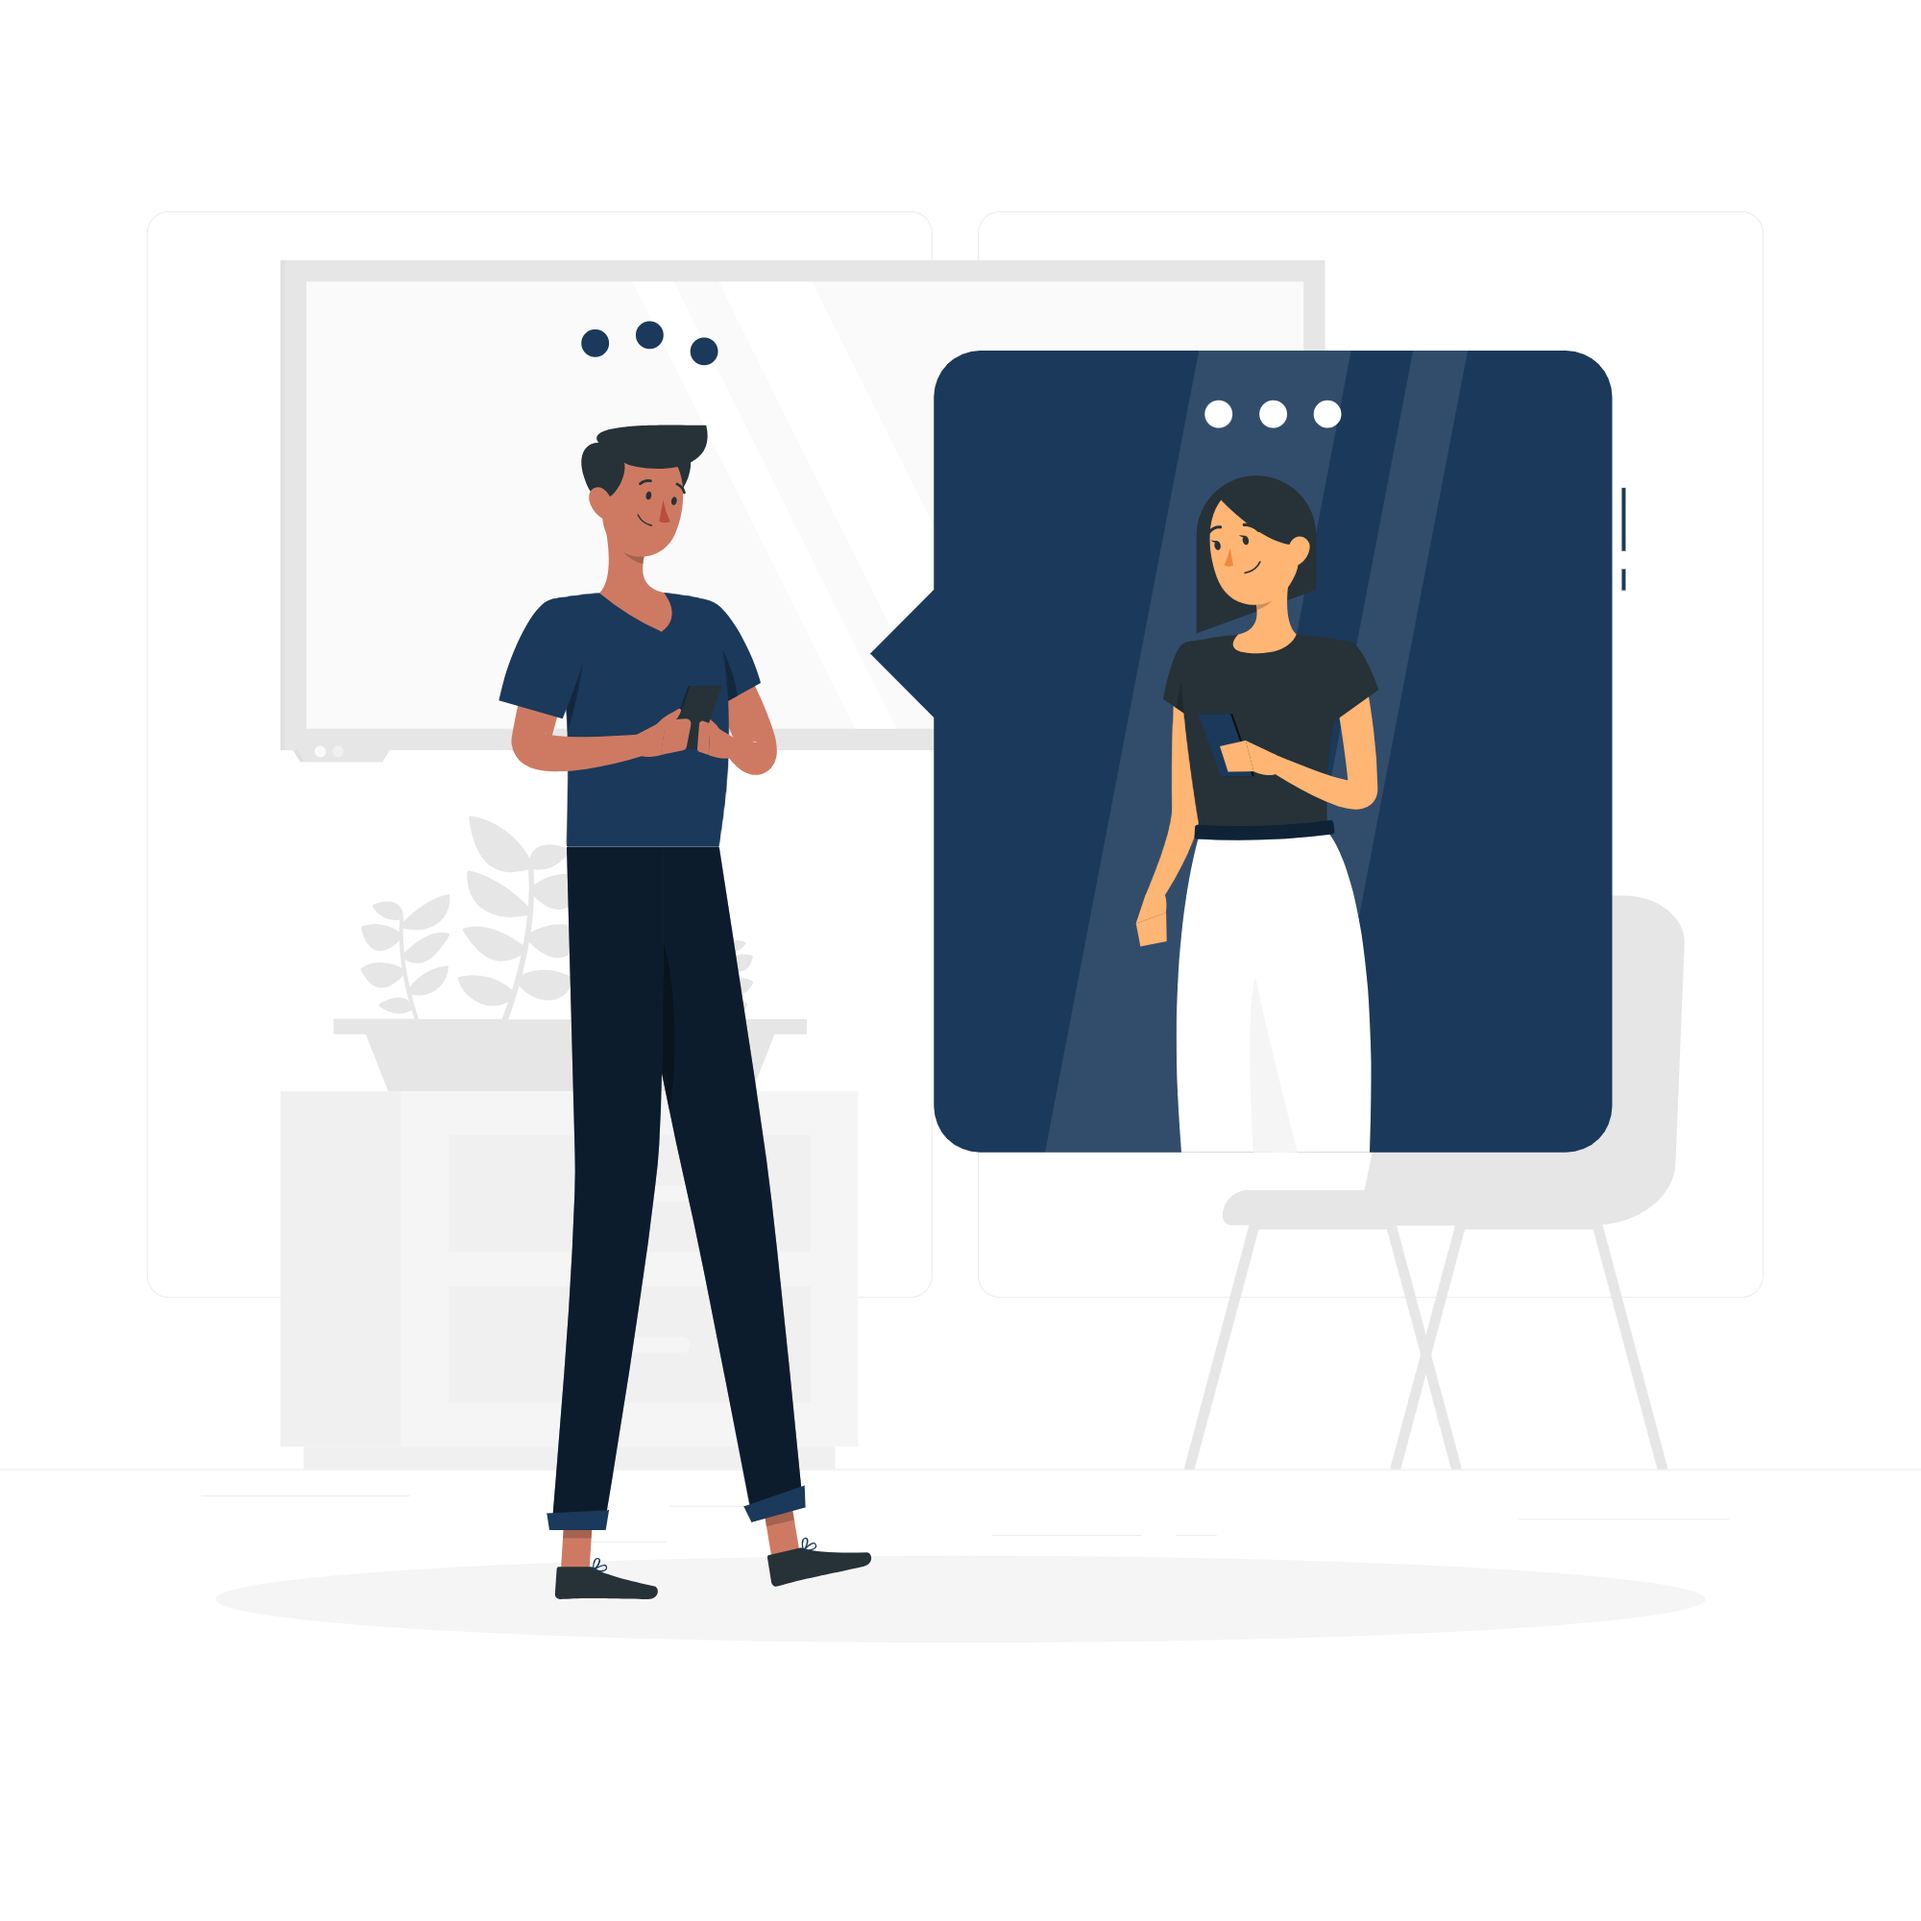
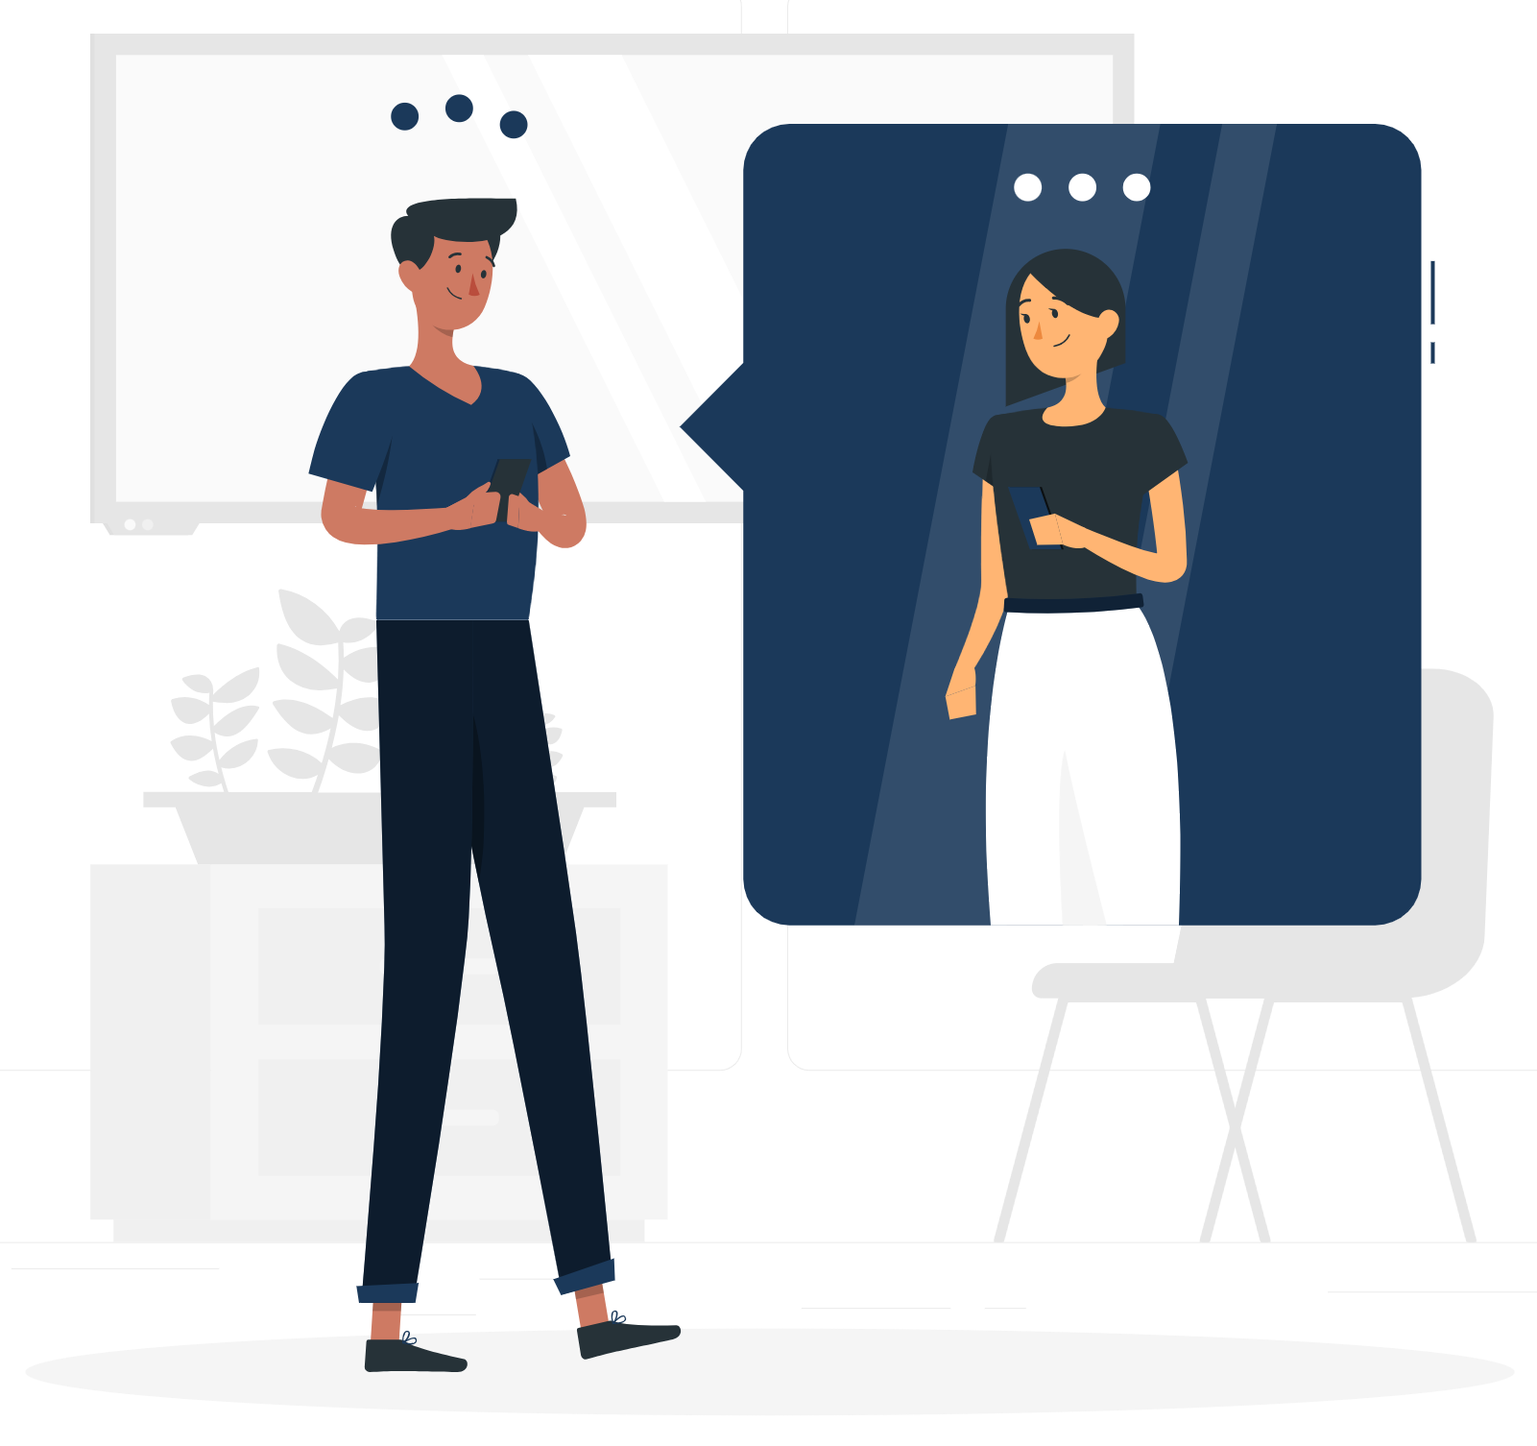
✨ feat(home): implement home page layout and assets
- add home page structure with sidebar and content area
- include hero image and description for better user engagement
- integrate minimal sidebar component for navigation
- add new assets such as HomePhoto.png

Changed region(s): [[0.0312, 0.0, 0.9681, 0.9675], [0.9369, 0.7802, 0.9681, 0.8738]]

diff --git a/client/src/page/Home.jsx b/client/src/page/Home.jsx
@@ -1,22 +1,28 @@
 import MinSidebar from "@/components/MinSidebar";
 import React, { useState } from "react";
+import HomePhoto from "../assets/HomePhoto.png";
 
 const Home = () => {
   const [active, setActive] = useState("Home");
   return (
     <>
       <div className="grid lg:grid-cols-12">
-        <div className="col-span-4 w-full h-screen">
+        <div className="col-span-4 w-full h-screen sticky top-0">
           <div className="grid grid-cols-12">
-            <div className="col-span-2 bg-primary/10 w-full h-screen sticky top-0">
+            <div className="col-span-2 bg-primary/10 w-full">
               <MinSidebar active={active} setActive={setActive} />
             </div>
-            <div className="col-span-10  w-full h-screen p-5">
-              <h3 className="text-2xl font-bold tracking-wider">ChatDock</h3>
+            <div className="col-span-10 w-full h-screen p-3 flex flex-col">
+              <h3 className="text-3xl font-bold tracking-wider">ChatDock</h3>
             </div>
           </div>
         </div>
-        <div className="lg:col-span-8 lg:flex hidden bg-primary/10 backdrop-blur-md w-full h-screen"></div>
+        <div className="lg:col-span-8 lg:flex flex-col gap-2 items-center justify-center hidden bg-primary/10 backdrop-blur-md w-full min-h-screen">
+          <img src={HomePhoto} alt="HomePhoto" className="w-[500px] h-auto" />
+          <p className="text-sm  w-1/2 text-center">
+            "ChatDock is a fast, secure, and modern web-based messaging platform that keeps all your conversations docked in one place — anytime, anywhere."
+          </p>
+        </div>
       </div>
     </>
   );

diff --git a/client/src/page/AuthPage.jsx b/client/src/page/AuthPage.jsx
@@ -31,8 +31,8 @@ const AuthPage = () => {
             )}
           </div>
         </div>
-        <div className="w-full bg-primary/10 backdrop-blur-md h-screen lg:flex flex-col items-center justify-center hidden">
-        <img src={AuthPhoto} alt="auth" className="w-auto h-[500px]" />
+        <div className="w-full bg-primary/10 backdrop-blur-md h-screen lg:flex flex-col gap-2 items-center justify-center hidden">
+        <img src={AuthPhoto} alt="auth" className="w-auto h-[400px]" />
         <p className="text-xs text-muted-foreground">"Log in to keep the conversation going, or sign up to start your first chat today."</p>
         </div>
       </div>

diff --git a/client/src/components/MinSidebar.jsx b/client/src/components/MinSidebar.jsx
@@ -15,7 +15,7 @@ const MinSidebar = ({ active, setActive }) => {
 
   return (
     <>
-      <div className="flex flex-col items-center justify-between py-5 gap-4 h-full">
+      <div className="flex flex-col items-center justify-between py-3 gap-4 h-full">
         <div className="flex flex-col items-center gap-4">
           <img src={Logo} alt="loading" className="w-auto h-[40px]" />
           <Tooltip>
